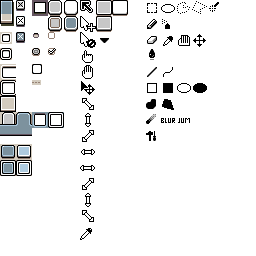
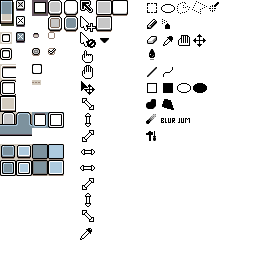
Added mini-look (SkinProperty::isMiniLook) to buttons and sliders.

Changed region(s): [[0.125, 0.5625, 0.25, 0.6875]]

diff --git a/src/modules/skinneable_theme.cpp b/src/modules/skinneable_theme.cpp
@@ -23,6 +23,7 @@
 
 #include "jinete/jinete.h"
 #include "jinete/jintern.h"
+#include "Vaca/SharedPtr.h"
 
 #include "core/dirs.h"
 #include "loadpng.h"
@@ -219,6 +220,42 @@ static struct
   { 21,170,  6,  6 }, //  PART_SLIDER_EMPTY_FOCUSED_S
   { 16,170,  5,  6 }, //  PART_SLIDER_EMPTY_FOCUSED_SW
   { 16,165,  5,  5 }, //  PART_SLIDER_EMPTY_FOCUSED_W
+
+  { 32,144,  5,  5 }, //  PART_MINI_SLIDER_FULL_NW
+  { 37,144,  6,  5 }, //  PART_MINI_SLIDER_FULL_N
+  { 43,144,  5,  5 }, //  PART_MINI_SLIDER_FULL_NE
+  { 43,149,  5,  5 }, //  PART_MINI_SLIDER_FULL_E
+  { 43,154,  5,  6 }, //  PART_MINI_SLIDER_FULL_SE
+  { 37,154,  6,  6 }, //  PART_MINI_SLIDER_FULL_S
+  { 32,154,  5,  6 }, //  PART_MINI_SLIDER_FULL_SW
+  { 32,149,  5,  5 }, //  PART_MINI_SLIDER_FULL_W
+
+  { 48,144,  5,  5 }, //  PART_MINI_SLIDER_EMPTY_NW
+  { 53,144,  6,  5 }, //  PART_MINI_SLIDER_EMPTY_N
+  { 59,144,  5,  5 }, //  PART_MINI_SLIDER_EMPTY_NE
+  { 59,149,  5,  5 }, //  PART_MINI_SLIDER_EMPTY_E
+  { 59,154,  5,  6 }, //  PART_MINI_SLIDER_EMPTY_SE
+  { 53,154,  6,  6 }, //  PART_MINI_SLIDER_EMPTY_S
+  { 48,154,  5,  6 }, //  PART_MINI_SLIDER_EMPTY_SW
+  { 48,149,  5,  5 }, //  PART_MINI_SLIDER_EMPTY_W
+
+  { 32,160,  5,  5 }, //  PART_MINI_SLIDER_FULL_FOCUSED_NW
+  { 37,160,  6,  5 }, //  PART_MINI_SLIDER_FULL_FOCUSED_N
+  { 43,160,  5,  5 }, //  PART_MINI_SLIDER_FULL_FOCUSED_NE
+  { 43,165,  5,  5 }, //  PART_MINI_SLIDER_FULL_FOCUSED_E
+  { 43,170,  5,  6 }, //  PART_MINI_SLIDER_FULL_FOCUSED_SE
+  { 37,170,  6,  6 }, //  PART_MINI_SLIDER_FULL_FOCUSED_S
+  { 32,170,  5,  6 }, //  PART_MINI_SLIDER_FULL_FOCUSED_SW
+  { 32,165,  5,  5 }, //  PART_MINI_SLIDER_FULL_FOCUSED_W
+
+  { 48,160,  5,  5 }, //  PART_MINI_SLIDER_EMPTY_FOCUSED_NW
+  { 53,160,  6,  5 }, //  PART_MINI_SLIDER_EMPTY_FOCUSED_N
+  { 59,160,  5,  5 }, //  PART_MINI_SLIDER_EMPTY_FOCUSED_NE
+  { 59,165,  5,  5 }, //  PART_MINI_SLIDER_EMPTY_FOCUSED_E
+  { 59,170,  5,  6 }, //  PART_MINI_SLIDER_EMPTY_FOCUSED_SE
+  { 53,170,  6,  6 }, //  PART_MINI_SLIDER_EMPTY_FOCUSED_S
+  { 48,170,  5,  6 }, //  PART_MINI_SLIDER_EMPTY_FOCUSED_SW
+  { 48,165,  5,  5 }, //  PART_MINI_SLIDER_EMPTY_FOCUSED_W
 
   { 32, 80,  9,  5 }, //  PART_SEPARATOR
 
@@ -711,30 +748,40 @@ void SkinneableTheme::draw_button(JWidget widget, JRect clip)
 			    icon_bmp ? icon_bmp->w : 0,
 			    icon_bmp ? icon_bmp->h : 0);
 
-  /* selected */
+  // Tool buttons are smaller
+  bool isMiniLook = false;
+  Vaca::SharedPtr<SkinProperty> skinPropery = widget->getProperty(SkinProperty::SkinPropertyName);
+  if (skinPropery != NULL)
+    isMiniLook = skinPropery->isMiniLook();
+
+  // selected
   if (jwidget_is_selected(widget)) {
     fg = get_button_selected_text_color();
     bg = get_button_selected_face_color();
-    part_nw = PART_BUTTON_SELECTED_NW;
+    part_nw = isMiniLook ? PART_TOOLBUTTON_NORMAL_NW:
+			   PART_BUTTON_SELECTED_NW;
   }
-  /* with mouse */
+  // with mouse
   else if (jwidget_is_enabled(widget) && jwidget_has_mouse(widget)) {
     fg = get_button_hot_text_color();
     bg = get_button_hot_face_color();
-    part_nw = PART_BUTTON_HOT_NW;
+    part_nw = isMiniLook ? PART_TOOLBUTTON_HOT_NW:
+			   PART_BUTTON_HOT_NW;
   }
-  /* without mouse */
+  // without mouse
   else {
     fg = get_button_normal_text_color();
     bg = get_button_normal_face_color();
 
     if (jwidget_has_focus(widget))
-      part_nw = PART_BUTTON_FOCUSED_NW;
+      part_nw = isMiniLook ? PART_TOOLBUTTON_HOT_NW:
+			     PART_BUTTON_FOCUSED_NW;
     else
-      part_nw = PART_BUTTON_NORMAL_NW;
+      part_nw = isMiniLook ? PART_TOOLBUTTON_NORMAL_NW:
+			     PART_BUTTON_NORMAL_NW;
   }
 
-  /* widget position */
+  // widget position
   x1 = widget->rc->x1;
   y1 = widget->rc->y1;
   x2 = widget->rc->x2-1;
@@ -758,18 +805,18 @@ void SkinneableTheme::draw_button(JWidget widget, JRect clip)
 		     get_button_selected_offset(),
 		     get_button_selected_offset());
 
-    /* enabled */
+    // enabled
     if (jwidget_is_enabled(widget)) {
-      /* selected */
+      // selected
       if (jwidget_is_selected(widget)) {
 	jdraw_inverted_sprite(ji_screen, icon_bmp, icon.x1, icon.y1);
       }
-      /* non-selected */
+      // non-selected
       else {
 	draw_sprite(ji_screen, icon_bmp, icon.x1, icon.y1);
       }
     }
-    /* disabled */
+    // disabled
     else {
       _ji_theme_draw_sprite_color(ji_screen, icon_bmp, icon.x1+jguiscale(), icon.y1+jguiscale(),
 				  COLOR_BACKGROUND);
@@ -1163,6 +1210,12 @@ void SkinneableTheme::draw_slider(JWidget widget, JRect clip)
 
   jtheme_slider_info(widget, &min, &max, &value);
 
+  // Tool buttons are smaller
+  bool isMiniLook = false;
+  Vaca::SharedPtr<SkinProperty> skinPropery = widget->getProperty(SkinProperty::SkinPropertyName);
+  if (skinPropery != NULL)
+    isMiniLook = skinPropery->isMiniLook();
+
   x1 = widget->rc->x1 + widget->border_width.l;
   y1 = widget->rc->y1 + widget->border_width.t;
   x2 = widget->rc->x2 - widget->border_width.r - 1;
@@ -1178,8 +1231,21 @@ void SkinneableTheme::draw_slider(JWidget widget, JRect clip)
   x2 = widget->rc->x2 - 1;
   y2 = widget->rc->y2 - 1;
 
-  int full_part_nw = jwidget_has_focus(widget) ? PART_SLIDER_FULL_FOCUSED_NW: PART_SLIDER_FULL_NW;
-  int empty_part_nw = jwidget_has_focus(widget) ? PART_SLIDER_EMPTY_FOCUSED_NW: PART_SLIDER_EMPTY_NW;
+  int full_part_nw;
+  int empty_part_nw;
+
+  if (isMiniLook) {
+    full_part_nw = jwidget_has_mouse(widget) ? PART_MINI_SLIDER_FULL_FOCUSED_NW:
+					       PART_MINI_SLIDER_FULL_NW;
+    empty_part_nw = jwidget_has_mouse(widget) ? PART_MINI_SLIDER_EMPTY_FOCUSED_NW:
+						PART_MINI_SLIDER_EMPTY_NW;
+  }
+  else {
+    full_part_nw = jwidget_has_focus(widget) ? PART_SLIDER_FULL_FOCUSED_NW:
+					       PART_SLIDER_FULL_NW;
+    empty_part_nw = jwidget_has_focus(widget) ? PART_SLIDER_EMPTY_FOCUSED_NW:
+						PART_SLIDER_EMPTY_NW;
+  }
 
   if (value == min)
     draw_bounds(x1, y1, x2, y2, empty_part_nw, get_slider_empty_face_color());

diff --git a/src/modules/skinneable_theme.h b/src/modules/skinneable_theme.h
@@ -215,6 +215,42 @@ enum {
   PART_SLIDER_EMPTY_FOCUSED_SW,
   PART_SLIDER_EMPTY_FOCUSED_W,
 
+  PART_MINI_SLIDER_FULL_NW,
+  PART_MINI_SLIDER_FULL_N,
+  PART_MINI_SLIDER_FULL_NE,
+  PART_MINI_SLIDER_FULL_E,
+  PART_MINI_SLIDER_FULL_SE,
+  PART_MINI_SLIDER_FULL_S,
+  PART_MINI_SLIDER_FULL_SW,
+  PART_MINI_SLIDER_FULL_W,
+
+  PART_MINI_SLIDER_EMPTY_NW,
+  PART_MINI_SLIDER_EMPTY_N,
+  PART_MINI_SLIDER_EMPTY_NE,
+  PART_MINI_SLIDER_EMPTY_E,
+  PART_MINI_SLIDER_EMPTY_SE,
+  PART_MINI_SLIDER_EMPTY_S,
+  PART_MINI_SLIDER_EMPTY_SW,
+  PART_MINI_SLIDER_EMPTY_W,
+
+  PART_MINI_SLIDER_FULL_FOCUSED_NW,
+  PART_MINI_SLIDER_FULL_FOCUSED_N,
+  PART_MINI_SLIDER_FULL_FOCUSED_NE,
+  PART_MINI_SLIDER_FULL_FOCUSED_E,
+  PART_MINI_SLIDER_FULL_FOCUSED_SE,
+  PART_MINI_SLIDER_FULL_FOCUSED_S,
+  PART_MINI_SLIDER_FULL_FOCUSED_SW,
+  PART_MINI_SLIDER_FULL_FOCUSED_W,
+
+  PART_MINI_SLIDER_EMPTY_FOCUSED_NW,
+  PART_MINI_SLIDER_EMPTY_FOCUSED_N,
+  PART_MINI_SLIDER_EMPTY_FOCUSED_NE,
+  PART_MINI_SLIDER_EMPTY_FOCUSED_E,
+  PART_MINI_SLIDER_EMPTY_FOCUSED_SE,
+  PART_MINI_SLIDER_EMPTY_FOCUSED_S,
+  PART_MINI_SLIDER_EMPTY_FOCUSED_SW,
+  PART_MINI_SLIDER_EMPTY_FOCUSED_W,
+
   PART_SEPARATOR,
 
   PART_COMBOBOX_ARROW,
